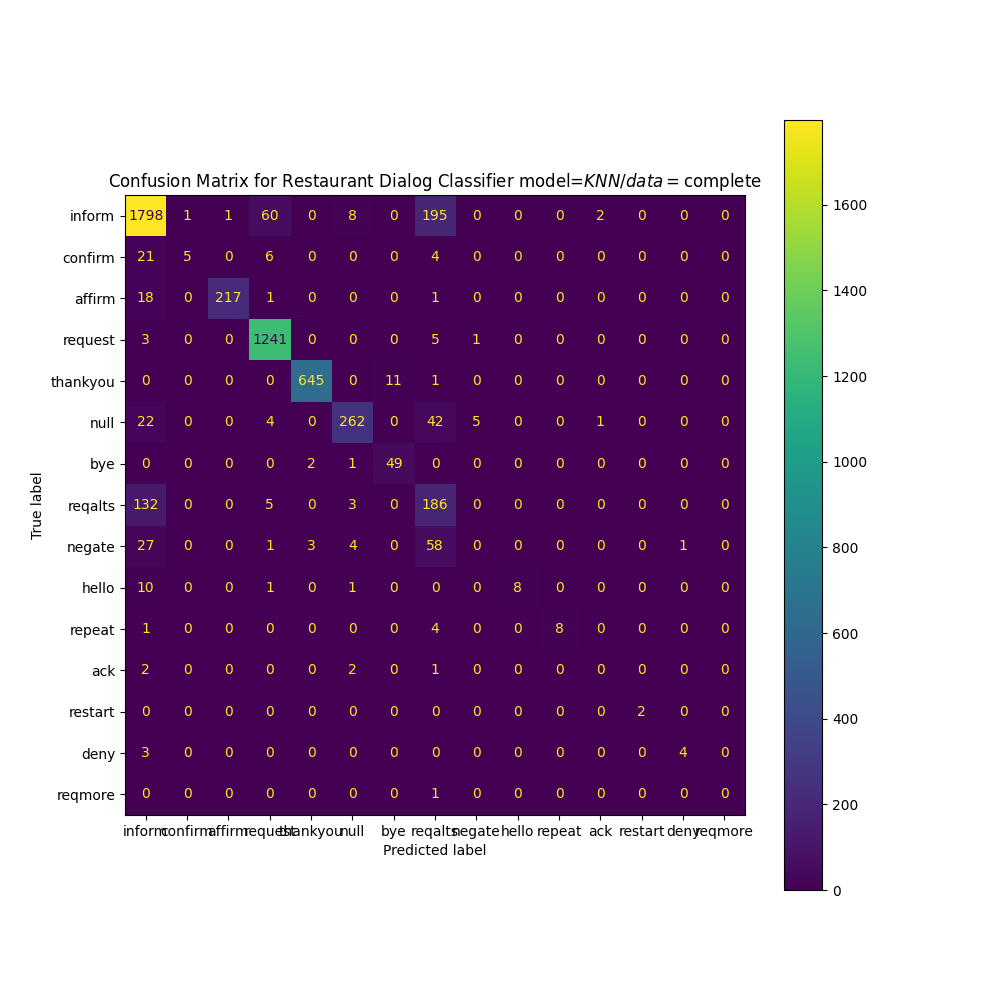
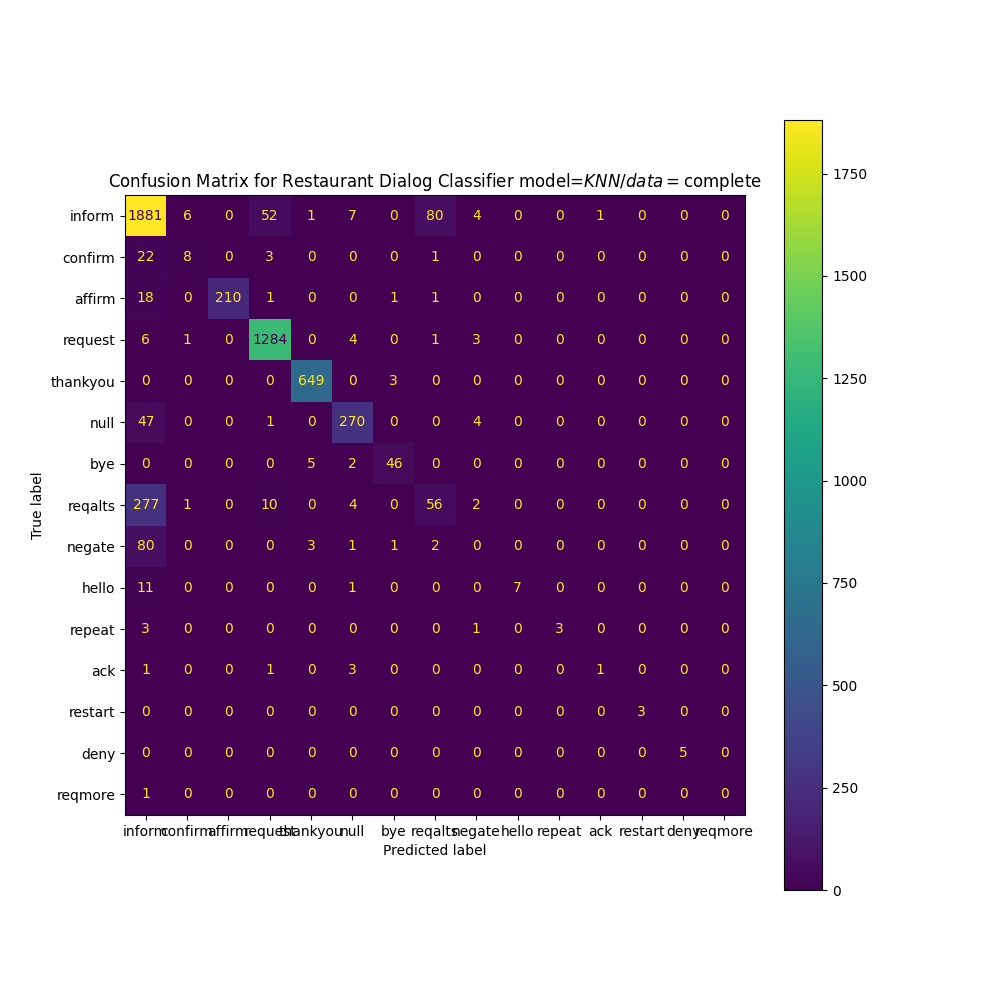
Fixed test set issue
I fixed the issue where sometimes the test set does not have all the labels by using stratification when creating the train/test split, and dropping duplicates after this instead of before. Also added results

diff --git a/model_eval.py b/model_eval.py
@@ -18,8 +18,8 @@ def predict_difficult_instance(model, vectorizer):
     ]
 
     for inst in difficult_instances:
-        inst = vectorizer.transform([inst]) if repr(model) != "KeywordClassifier()" else inst
-        print(f"Sentence: {inst}\tPredicted label: {model.classify(inst)}")
+        inst_tf = vectorizer.transform([inst]) if repr(model) != "KeywordClassifier()" else [inst]
+        print(f"Sentence: {inst}\tPredicted label: {model.predict(inst_tf)}")
         
     return
 
@@ -38,7 +38,7 @@ for mode in ["complete","dedupl"]:
     X_test_raw=pkl.load(file5)
     
     
-    for model in ["keyword"]: #["Ridge", "KNN", "DecisionTree", "most_frequent", "keyword"]:
+    for model in ["Ridge", "KNN", "DecisionTree", "most_frequent", "keyword"]:
         modelfile = open("models/"+mode+"/"+model+".pkl",'rb')
         pickled_model = pkl.load(modelfile)
         if model == "keyword":

diff --git a/dataprep.py b/dataprep.py
@@ -23,12 +23,14 @@ def load_data(filename,mode):
         labels.append(label)
         limit+=1
     
+    df= pd.DataFrame(list(zip(labels,messages)), columns = ['Label',"Text"])
+    
 
-    df= pd.DataFrame(list(zip(labels,messages)),columns =['Label',"Text"])
+    train, test = sklearn.model_selection.train_test_split(df, test_size=0.2, stratify=df["Label"])
+    
     if mode=="dedupl":
-        df=df.drop_duplicates(subset=['Label','Text'])
-
-    train, test = sklearn.model_selection.train_test_split(df, test_size=0.2)
+        train=train.drop_duplicates(subset=['Label','Text'])
+        test=test.drop_duplicates(subset=['Label','Text'])
     
     file = open(f"data/{mode}/X_test_raw.pkl", 'wb')
     pkl.dump(test["Text"], file)
